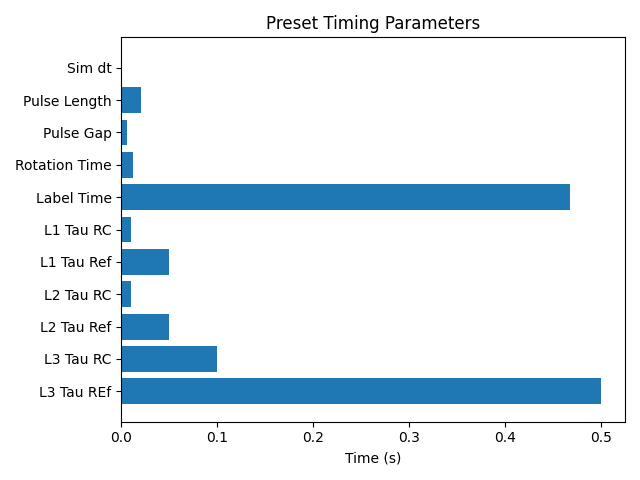
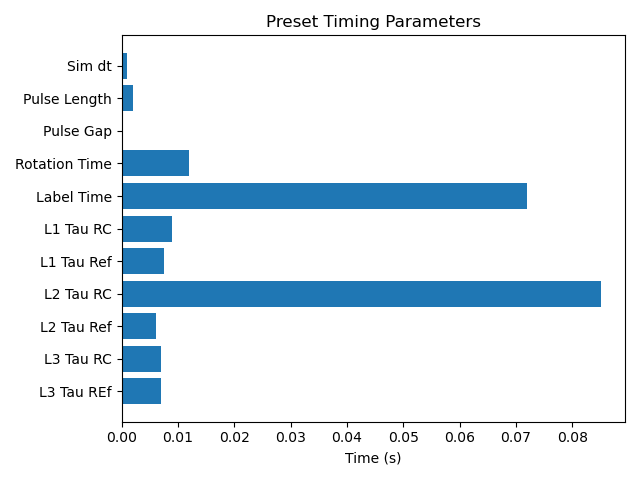
preset timing calc update for rotation time

diff --git a/three-layers-feedback.py b/three-layers-feedback.py
@@ -28,8 +28,8 @@ def preset_timing_plot():
     performance[0] = sim.dt
     performance[1] = (pt*pulse_length)
     performance[2] = (pt*pulse_gap)
-    performance[3] = ts*pt
-    performance[4] = label_length*pt
+    performance[3] = ts*(pt*(pulse_gap+pulse_length))
+    performance[4] = label_length*(pt*(pulse_gap+pulse_length))
     performance[5] = layer1.neuron_type.tau_rc
     performance[6] = layer1.neuron_type.tau_ref
     performance[7] = layer2.neuron_type.tau_rc
@@ -356,7 +356,7 @@ while not good:
     else:
         reseed += 1
 
-    #preset_timing_plot()    
+    preset_timing_plot()    
     #good = True
 
 plt.figure()
